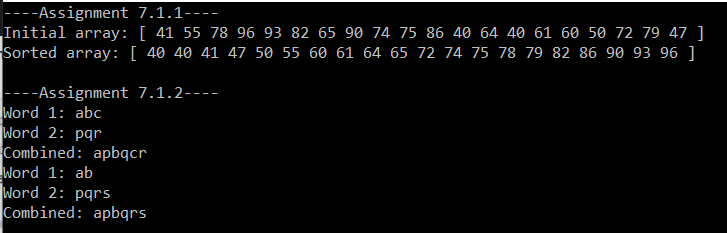
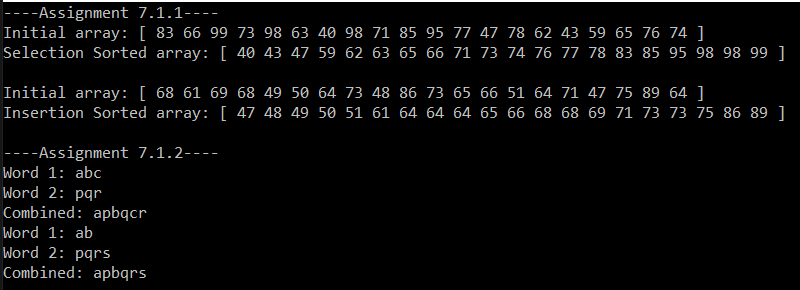
Updates

Changed region(s): [[0.0, 0.0, 1.0, 1.0]]

diff --git a/Assignment_7.1/Program.cs b/Assignment_7.1/Program.cs
@@ -6,8 +6,11 @@ int[] grades = new int[n];
 for (int i = 0; i < n; i++) grades[i] = r.Next(40, 100);
 Console.WriteLine($"Initial array: {Functions.PrintArray(grades)}");
 Functions.SelectionSort(grades);
-Console.WriteLine($"Sorted array: {Functions.PrintArray(grades)}\n");
-
+Console.WriteLine($"Selection Sorted array: {Functions.PrintArray(grades)}\n");
+for (int i = 0; i < n; i++) grades[i] = r.Next(40, 100);
+Console.WriteLine($"Initial array: {Functions.PrintArray(grades)}");
+Functions.InsertionSort(grades);
+Console.WriteLine($"Insertion Sorted array: {Functions.PrintArray(grades)}\n");
 
 // Assignment 7.1.2
 Console.WriteLine("----Assignment 7.1.2----");

diff --git a/Assignment_7.1/Functions.cs b/Assignment_7.1/Functions.cs
@@ -23,6 +23,23 @@ public static class Functions
         }
     }
 
+    public static void InsertionSort(int[] arr)
+    {
+        int temp = 0;
+        int pos = 0;
+        for(int i = 1; i < arr.Length; i++)
+        {
+            temp = arr[i];
+            pos = i;
+            while (pos > 0 && arr[pos - 1] > temp) 
+            {
+                arr[pos] = arr[pos - 1];
+                pos--;
+            }
+            arr[pos] = temp;
+        }
+    }
+
     public static string MergeStrings(string s1, string s2)
     {
         int minLen = Math.Min(s1.Length, s2.Length);
